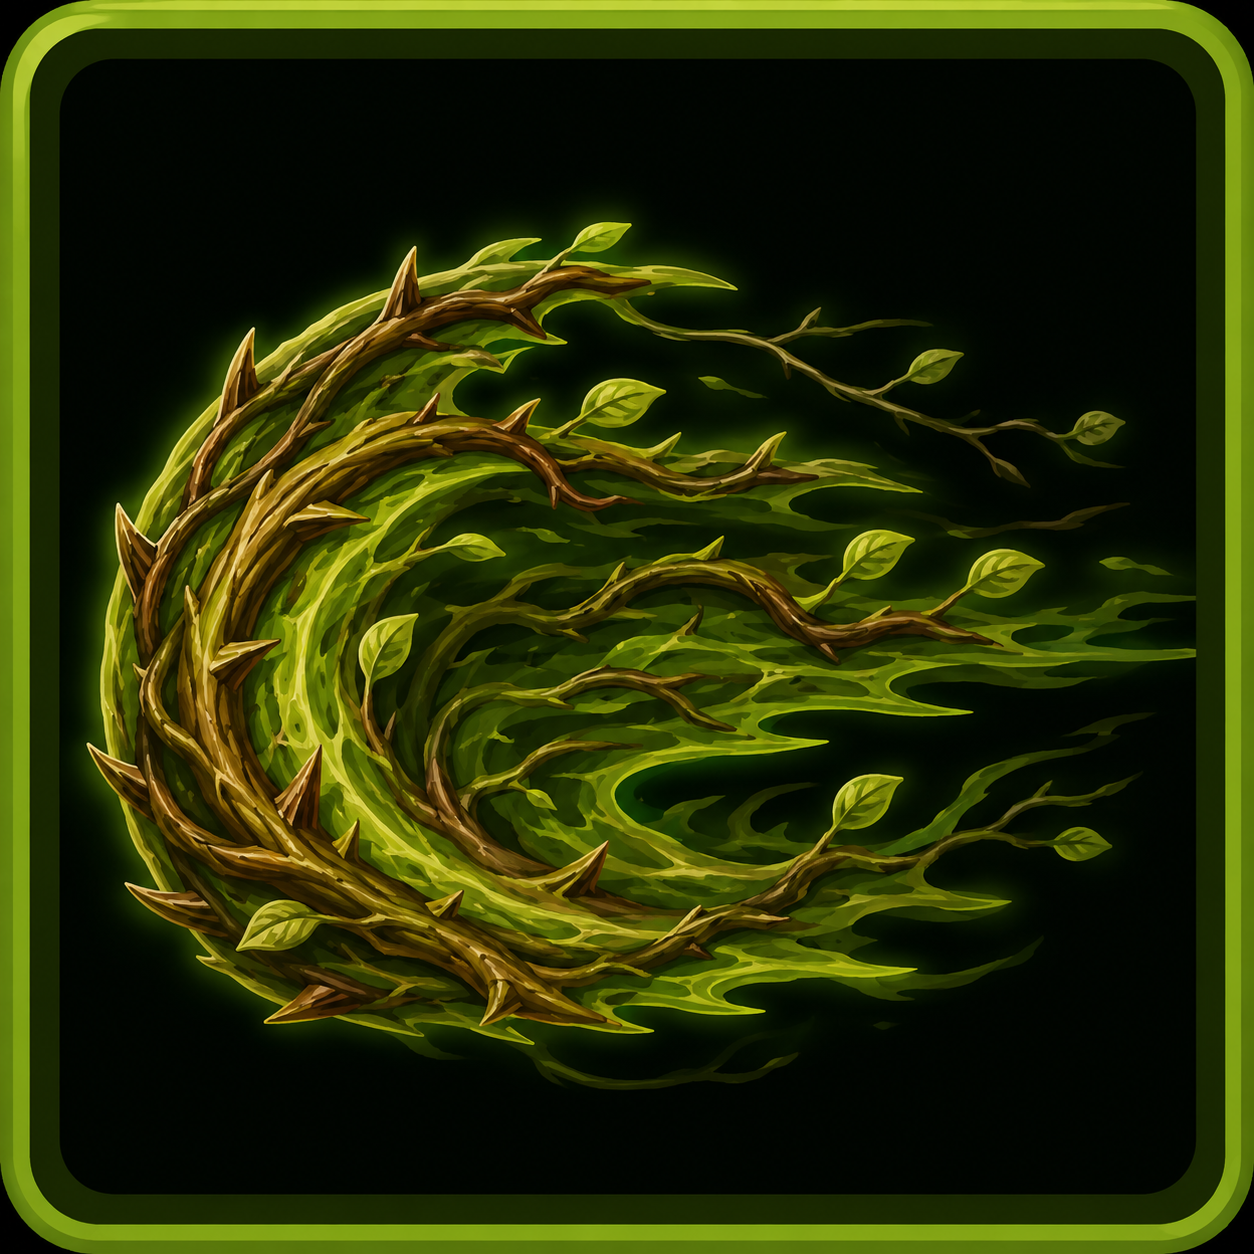
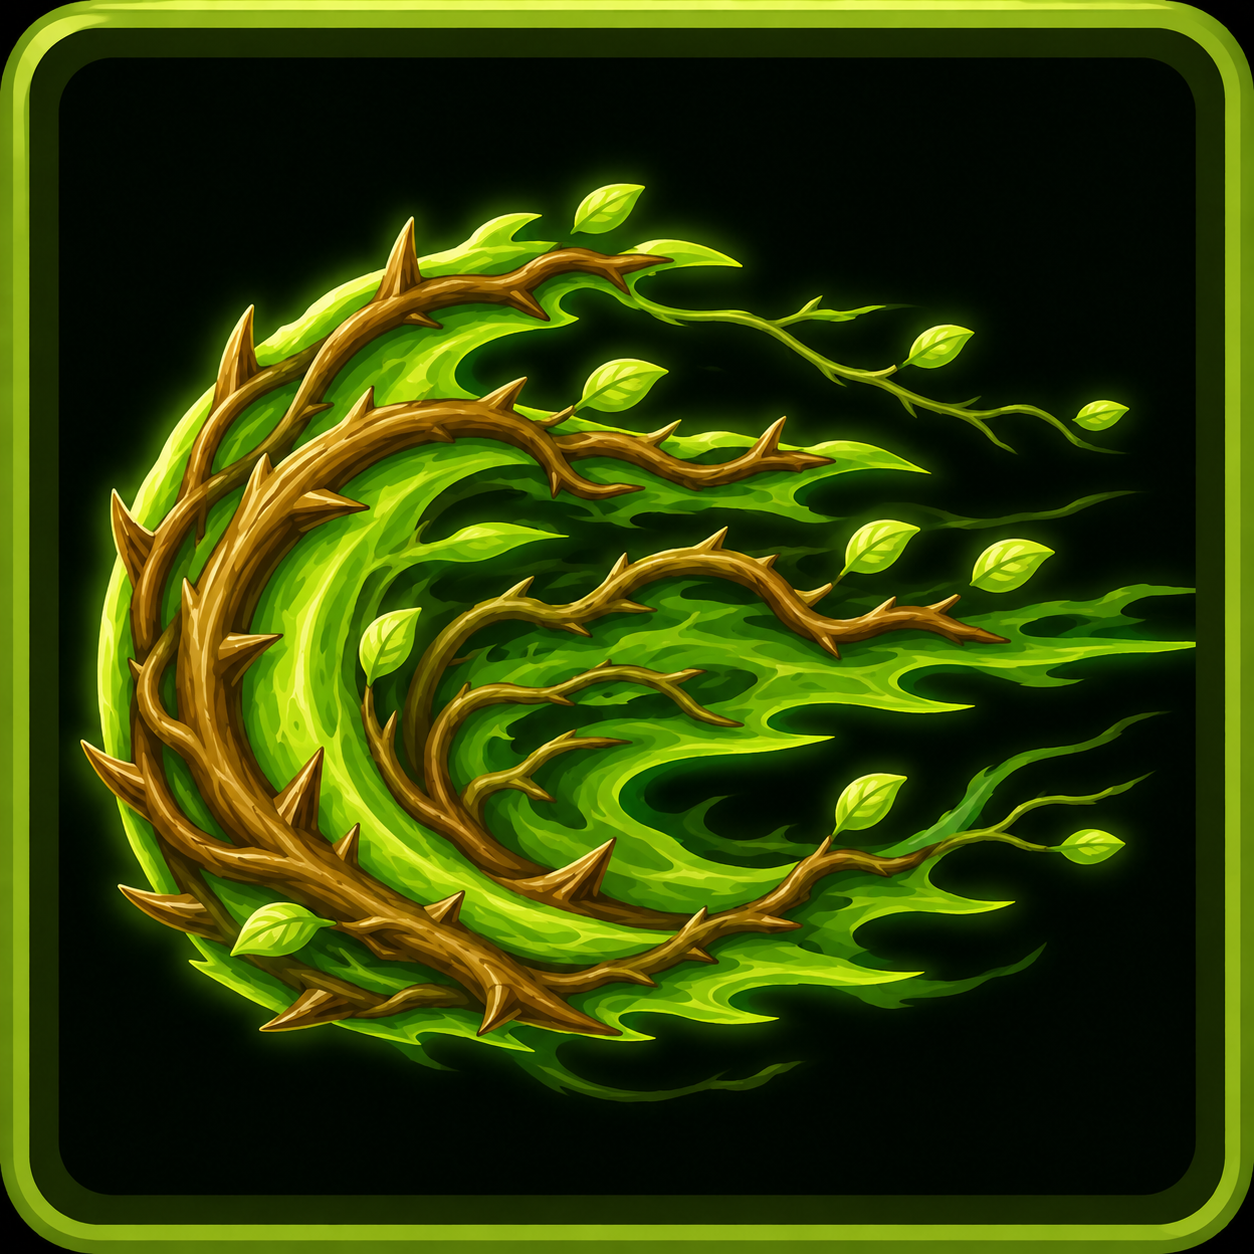
added shading on all the spells and fixed trail, change attack from closest to random enemy

diff --git a/mechanics.md b/mechanics.md
@@ -51,10 +51,13 @@
     (shots/sec), both modified by drafted upgrades.
   - Each `physics_process`, the tower's targeting component scans for enemies
     inside range and on a spell-by-spell cooldown, fires when ready.
-  - Targeting mode for v1: **closest enemy**. (Other modes —
-    lowest-HP/highest-HP/first-aggro — are **[LATER]**, the targeting component
-    is written to accept a mode enum so adding modes is a new `match` branch,
-    not new architecture.)
+  - Targeting: always a **random enemy in range**, for every spell type
+    except Orb (which doesn't target at all — it orbits and hits on
+    contact). No selectable mode — a prior `CLOSEST`/`RANDOM` mode enum
+    existed but was removed after `CLOSEST` turned out to be silently
+    unwired (every projectile spell always hit nearest regardless of what
+    the mode said); if targeting variety is wanted later, it should be
+    re-added wired all the way through, not left as a dormant option.
 - **Tower HP**: tower has `max_hp` and current `hp`. Enemies that reach melee
   range of the tower deal damage on a cooldown. At `hp <= 0`, the run ends in
   defeat.

diff --git a/components.md b/components.md
@@ -400,11 +400,13 @@ unrelated concerns like animation, audio, AND combat AND movement all at once).
 
 ### `targeting_component.gd`
 - **What it does**: `class_name TargetingComponent extends Node`. Exports
-  `range: float`, `mode: TargetMode`. Maintains a list of enemies currently
-  inside an `Area3D` range trigger (sibling node), exposes
-  `get_target() -> Node3D` which applies the current `mode` (v1: closest only;
-  `match mode:` with one case — new modes are new cases, not new
-  architecture).
+  `range: float`. Maintains a list of enemies currently inside an `Area3D`
+  range trigger (sibling node), exposes `get_targets(count) -> Array[Node3D]`
+  (up to `count` distinct RANDOM targets — the one every projectile cast in
+  `tower.gd` actually fires through, stacked or not; nothing sorts by
+  distance here) and `get_target() -> Node3D` (thin wrapper, `get_targets(1)`).
+  No selectable mode — always random, no exceptions besides Orb (which
+  doesn't call this at all).
 - **Used by**: Tower.
 
 ### `cooldown_component.gd`
